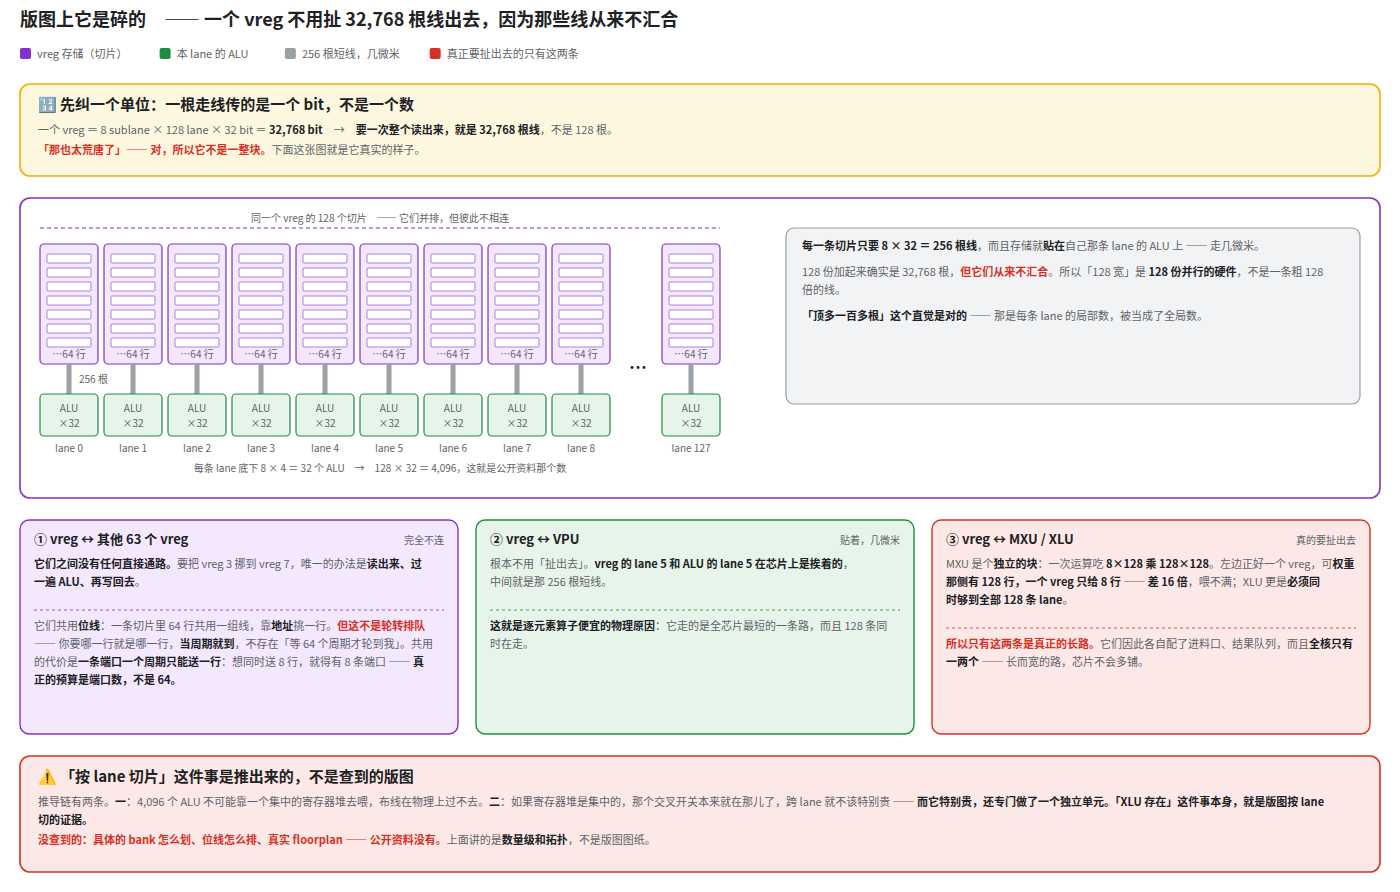
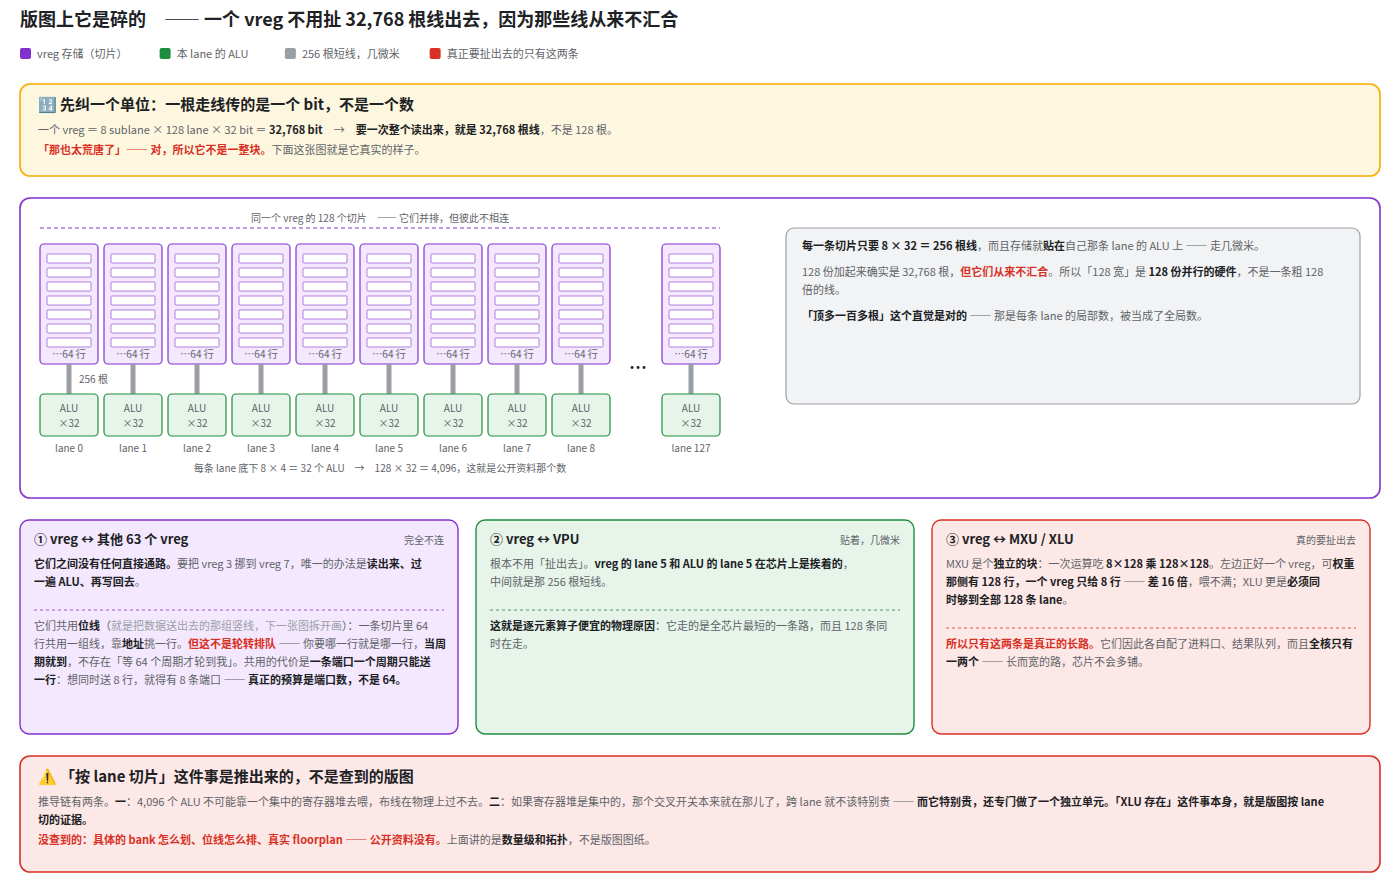
专题二 §3.2：第 2-5 轮审计（叙事衔接 / 出处分层 / 视觉 / 读者路径），修 4 处
第 2 轮 · 叙事衔接
8. P-26 的图注仍把「列与列之间没有直连通路」写成「我给的解释」，
   而图上那条红带早已把它收回 —— 图注与图正面打架，而且这条是**渲染出来给学员看的**。
   （上一个 commit 只修了 docstring，漏了图注。同一处错的第二个落点。）
   改写成：这条红带记的是一次收回，真正的说法是「贵在往返，不在缺线」，
   并点明它是后面三张图共同的地基。
9. P-29 用了「位线」但全文此前没有任何定义，读者是冷着撞上这个词的
   （P-30 才画）。就地加一句白话 + 指向下一张图。

第 3 轮 · 出处分层
10. 正文 P-30 引子写「公开资料明说一个周期就能到 VPU」—— 这是把学员的
    口头说法升格成了出处。公开资料给的是「每周期发 4 条向量指令、每条读 2 个 vreg」，
    改成这个有出处的说法，结论（不存在等 64 周期）照样成立。
    五张图的出处带已逐张确认齐全（P-27 的 v5p 口径带、P-28 的推导带、
    P-29 的红带、P-30 的通则带、P-26 的收回带）。

第 4 轮 · 视觉：P-29 重渲染目视通过，无碰撞无溢出。

第 5 轮 · 读者路径
11. P-30 之后直接进 §3.3，全课最深的一段没有出口。补一段收口 note：
    五张图串成一句话（数据从哪到哪、代价多少）→ 全部搬到编译期 →
    回到全课那条分水岭（谁在运行时挑活）。只讲串起来的线，不复述各图落点。

Changed region(s): [[0.0307, 0.6962, 0.3379, 0.787]]

diff --git a/Courses/WebPages/topic-02.html b/Courses/WebPages/topic-02.html
@@ -3878,7 +3878,7 @@ footer a{text-decoration:none}
 <text x="38" y="950" class="xs">这张图早先的版本写着「列与列之间没有直连通路」——那是想当然，已经删掉。公开资料的说法是：跨 lane <tspan font-weight="700" fill="#202124">至少要过一趟 VMEM／XLU／SMEM</tspan> ——<tspan font-weight="700" fill="#d93025">贵在「出一趟寄存器堆」这个往返，不在缺一根线。</tspan></text>
 <text x="38" y="971" class="xs">下一张图把这个往返画出来。<tspan font-weight="700" fill="#202124">XLU 的内部电路仍然没有出处</tspan> ——公开资料只说它是个独立单元、而且慢，没说它里面长什么样。</text>
 </svg>
-<figcaption>整张图就一件事：<b>同一个寄存器、同一批数，换个方向，代价完全不同</b>。绿的那一列是<b>纵向</b> —— 8 → 4 → 2 → 1，三步，全程没离开自己那套 ALU；红的那一行是<b>横向</b> —— 128 条 lane 各是一套硬件，数要横着走只能交给 <b>XLU</b>，而且往往还得绕一趟 VMEM。<b>黄带才是这张图真正要落的地方</b>：<code>softmax</code> 和 <code>RMSNorm</code> 都沿最后一维求和，而最后一维默认就铺在 lane 方向上 —— <b>最常做的那两个归约，恰好都撞在最贵的方向</b>。⚠ 底带那条不能跳过：<b>「列与列之间没有直连通路」是我给的解释，不是查到的</b>。</figcaption>
+<figcaption>整张图就一件事：<b>同一个寄存器、同一批数，换个方向，代价完全不同</b>。绿的那一列是<b>纵向</b> —— 8 → 4 → 2 → 1，三步，全程没离开自己那套 ALU；红的那一行是<b>横向</b> —— 128 条 lane 各是一套硬件，数要横着走只能交给 <b>XLU</b>，而且往往还得绕一趟 VMEM。<b>黄带才是这张图真正要落的地方</b>：<code>softmax</code> 和 <code>RMSNorm</code> 都沿最后一维求和，而最后一维默认就铺在 lane 方向上 —— <b>最常做的那两个归约，恰好都撞在最贵的方向</b>。⚠ 底带那条不能跳过，<b>它记的是一次收回</b>：「贵是因为列与列之间没有连线」——<b>这个说法是错的，已经撤掉</b>。公开资料的说法是跨 lane <b>至少要过一趟 VMEM／XLU／SMEM</b>，所以<b>贵在「出一趟寄存器堆再回来」这个往返，不在缺一根线</b>。（这一句是后面三张图共同的地基，别看漏。）</figcaption>
 </figure>
 
   <p><b>讲到这儿一定会有人问：那这些部件到底是怎么连的？</b>
@@ -4366,10 +4366,10 @@ footer a{text-decoration:none}
 <text x="34" y="568" class="xs"><tspan font-weight="700" fill="#202124">它们之间没有任何直接通路。</tspan>要把 vreg 3 挪到 vreg 7，唯一的办法是<tspan font-weight="700" fill="#202124">读出来、过</tspan></text>
 <text x="34" y="586" class="xs"><tspan font-weight="700" fill="#202124">一遍 ALU、再写回去</tspan>。</text>
 <line x1="34" y1="610" x2="444" y2="610" stroke="#8430ce" stroke-width="0.8" stroke-dasharray="3 3"/>
-<text x="34" y="630" class="xs">它们共用<tspan font-weight="700" fill="#202124">位线</tspan>：一条切片里 64 行共用一组线，靠<tspan font-weight="700" fill="#202124">地址</tspan>挑一行。<tspan font-weight="700" fill="#d93025">但这不是轮转排队</tspan> </text>
-<text x="34" y="648" class="xs">—— 你要哪一行就是哪一行，<tspan font-weight="700" fill="#202124">当周期就到</tspan>，不存在「等 64 个周期才轮到我」。共用</text>
-<text x="34" y="666" class="xs">的代价是<tspan font-weight="700" fill="#202124">一条端口一个周期只能送一行</tspan>：想同时送 8 行，就得有 8 条端口 —— <tspan font-weight="700" fill="#202124">真</tspan></text>
-<text x="34" y="684" class="xs"><tspan font-weight="700" fill="#202124">正的预算是端口数，不是 64。</tspan></text>
+<text x="34" y="630" class="xs">它们共用<tspan font-weight="700" fill="#202124">位线</tspan>（<tspan fill="#9aa0a6">就是把数据送出去的那组竖线，下一张图拆开画</tspan>）：一条切片里 64 </text>
+<text x="34" y="648" class="xs">行共用一组线，靠<tspan font-weight="700" fill="#202124">地址</tspan>挑一行。<tspan font-weight="700" fill="#d93025">但这不是轮转排队</tspan> —— 你要哪一行就是哪一行，<tspan font-weight="700" fill="#202124">当周</tspan></text>
+<text x="34" y="666" class="xs"><tspan font-weight="700" fill="#202124">期就到</tspan>，不存在「等 64 个周期才轮到我」。共用的代价是<tspan font-weight="700" fill="#202124">一条端口一个周期只能送</tspan></text>
+<text x="34" y="684" class="xs"><tspan font-weight="700" fill="#202124">一行</tspan>：想同时送 8 行，就得有 8 条端口 —— <tspan font-weight="700" fill="#202124">真正的预算是端口数，不是 64。</tspan></text>
 <rect x="476" y="520" width="438" height="214" rx="9" fill="#e6f4ea" stroke="#1e8e3e" stroke-width="1.4"/>
 <text x="490" y="544" class="box" fill="#1e8e3e">② vreg ↔ VPU</text>
 <text x="900" y="544" class="xxs" fill="#5f6368" text-anchor="end">贴着，几微米</text>
@@ -4399,7 +4399,9 @@ footer a{text-decoration:none}
   <p><b>「位线」这个词已经用了好几次，但一直没画出来 ——&nbsp;它其实就是一张田字格。</b>
     值得单独画一张，是因为不画就一定会误解成「大家轮流用一条总线」：
     <b>那样推下去，64 个 vreg 岂不是要 64 个周期才轮到一回？</b>
-    而公开资料明说一个周期就能到 VPU。<b>两句话对不上，对不上的是那个比喻，不是硬件。</b></p>
+    可公开资料给的数是：<b>每个周期都发得出 4 条向量指令，每条读 2 个 vreg</b> ——&nbsp;
+    也就是说<b>每一个周期都在从 vreg 取数，从来没有谁在等号</b>。
+    <b>两句话对不上，对不上的是那个比喻，不是硬件。</b></p>
 <figure class="fbox fwide" id="ms-p30">
 <svg viewBox="0 0 1400 1022" width="100%" xmlns="http://www.w3.org/2000/svg" role="img" aria-label="TPU 向量寄存器堆的位线结构：横向字线按地址选中一行，纵向位线把那一行的数据送出去；一个端口就是一整套这样的线">
 <text x="20" y="26" class="ttl">位线是一张<tspan font-weight="700">田字格</tspan>　—— 横的选行，竖的送数据，<tspan font-weight="700">一个端口就是一整套线</tspan></text>
@@ -4608,6 +4610,18 @@ footer a{text-decoration:none}
 </svg>
 <figcaption>「位线」这个词前面用了好几次，但一直没画。它其实就是一张<b>田字格</b>：<b>横着的是字线，一行一根，管「选中谁」；竖着的是位线，一位一根，管「把数据送出去」</b>。给一个 6 位地址，译码器点亮一根字线，那一行的 256 个单元同时接上位线 —— <b>当周期就到，没有排队这回事</b>。所以「64 个共用位线」的真面目是<b>按地址 64 挑 1</b>，<b>不是轮流用 64 个周期</b>。这张图顺带把「端口」落到实处：<b>一个端口 ＝ 译码器 ＋ 一组字线 ＋ 一组位线 ＋ 读出电路</b>，多端口就是在同一批单元上并排铺好几套线 —— 于是「多开几个端口」代价是<b>面积按端口数的平方涨</b>。⭐ 最值得看的是绿带那个对账：<b>64 × 256 × 128 ÷ 8 ＝ 256 KiB，正好等于公开资料说的「每核约 256 kB vreg」</b> —— 两条独立路径撞出同一个数，前面整套模型才算立住。</figcaption>
 </figure>
+
+  <div class="note ok"><span class="t">五张图走完了，串起来其实只有一句话</span>
+    从<b>方向</b>（P-26）到<b>一套 vreg 三个门</b>（P-27）到<b>端口不是总线</b>（P-28）
+    到<b>版图上按 lane 切碎</b>（P-29）再到<b>位线是一张田字格</b>（P-30）——
+    每一层都在回答同一个问题的更下一层：<b>数据从哪儿到哪儿，代价是多少。</b>
+    <br><br>而五层的答案指向同一个结论：<b>TPU 把「谁什么时候走哪条路」全部搬到了编译期</b>。
+    端口有几条是固定的，发射位有几个是固定的，跨 lane 只有那一两个 XLU ——
+    <b>正因为全都是固定的，编译器才排得出来；也正因为编译器排得出来，芯片上才不需要仲裁器。</b>
+    <br><br><b>这就是这门课从第 1 节起一直在回的那条分水岭</b>：
+    GPU 把这些决定留到运行时，所以要 warp 调度器、要记分板、要几十份常驻上下文；
+    TPU 把它们提前定死，于是那五样东西<b>同时</b>失去存在理由 ——
+    省下来的面积，就变成了更多的 MXU 和更大的 VMEM。</div>
 
   <h3>3.3　并行层级：哪几层是运行时才定的</h3>
   <p>上一节说的「运行时换任务」，具体是在哪一层发生的？把两边的层级摆开对照。

diff --git a/Courses/tools/topic02-port-microscope.py b/Courses/tools/topic02-port-microscope.py
@@ -200,7 +200,7 @@ CAP = {
 "p23": "二十条答不了的，按<b>「补起来有多难」</b>分四类，不按主题分 ——因为「跑一次就有」和「不由我们决定」是完全不同的两种空白。红格那两条（推理、TCO）是外行第一个会问的问题，<b>这门课从来没想到过</b>。",
 
 "p25": "两栏回答的是<b>同一个问题</b>：发送方手里那张单子上写着什么。一边写<b>对方的内存地址</b>（但那块内存必须先被对方注册过），一边写<b>哪颗芯片＋哪个段＋偏移</b>（段的物理基址握在接收方手里）—— 而<b>落到底下那句话是逐字相同的</b>。⚠ 左右证据等级不同：RDMA 是公开语义，ICI 这半<b>未标注来源</b>。",
-"p26": "整张图就一件事：<b>同一个寄存器、同一批数，换个方向，代价完全不同</b>。绿的那一列是<b>纵向</b> —— 8 → 4 → 2 → 1，三步，全程没离开自己那套 ALU；红的那一行是<b>横向</b> —— 128 条 lane 各是一套硬件，数要横着走只能交给 <b>XLU</b>，而且往往还得绕一趟 VMEM。<b>黄带才是这张图真正要落的地方</b>：<code>softmax</code> 和 <code>RMSNorm</code> 都沿最后一维求和，而最后一维默认就铺在 lane 方向上 —— <b>最常做的那两个归约，恰好都撞在最贵的方向</b>。⚠ 底带那条不能跳过：<b>「列与列之间没有直连通路」是我给的解释，不是查到的</b>。",
+"p26": "整张图就一件事：<b>同一个寄存器、同一批数，换个方向，代价完全不同</b>。绿的那一列是<b>纵向</b> —— 8 → 4 → 2 → 1，三步，全程没离开自己那套 ALU；红的那一行是<b>横向</b> —— 128 条 lane 各是一套硬件，数要横着走只能交给 <b>XLU</b>，而且往往还得绕一趟 VMEM。<b>黄带才是这张图真正要落的地方</b>：<code>softmax</code> 和 <code>RMSNorm</code> 都沿最后一维求和，而最后一维默认就铺在 lane 方向上 —— <b>最常做的那两个归约，恰好都撞在最贵的方向</b>。⚠ 底带那条不能跳过，<b>它记的是一次收回</b>：「贵是因为列与列之间没有连线」——<b>这个说法是错的，已经撤掉</b>。公开资料的说法是跨 lane <b>至少要过一趟 VMEM／XLU／SMEM</b>，所以<b>贵在「出一趟寄存器堆再回来」这个往返，不在缺一根线</b>。（这一句是后面三张图共同的地基，别看漏。）",
 "p30": "「位线」这个词前面用了好几次，但一直没画。它其实就是一张<b>田字格</b>：<b>横着的是字线，一行一根，管「选中谁」；竖着的是位线，一位一根，管「把数据送出去」</b>。给一个 6 位地址，译码器点亮一根字线，那一行的 256 个单元同时接上位线 —— <b>当周期就到，没有排队这回事</b>。所以「64 个共用位线」的真面目是<b>按地址 64 挑 1</b>，<b>不是轮流用 64 个周期</b>。这张图顺带把「端口」落到实处：<b>一个端口 ＝ 译码器 ＋ 一组字线 ＋ 一组位线 ＋ 读出电路</b>，多端口就是在同一批单元上并排铺好几套线 —— 于是「多开几个端口」代价是<b>面积按端口数的平方涨</b>。⭐ 最值得看的是绿带那个对账：<b>64 × 256 × 128 ÷ 8 ＝ 256 KiB，正好等于公开资料说的「每核约 256 kB vreg」</b> —— 两条独立路径撞出同一个数，前面整套模型才算立住。",
 "p29": "P-28 说「每条端口本身就是 128 宽」，最较真的追问紧接着就来：<b>一个 vreg 才 4 KB，它怎么可能扯出去那么多根线？</b>这个质疑<b>完全正确</b> —— 而且答案不是「线真有那么多」，是<b>「它们根本不需要汇合」</b>。先纠单位：一根走线传<b>一个 bit</b>，所以一个 vreg 是 8 × 128 × 32 ＝ <b>32,768 根</b>，不是 128 根。荒唐 → 所以它不是一整块：<b>整条数据通路按 lane 切成 128 份，存储就贴在自己那条 lane 的 ALU 旁边</b>，每份只要 <b>256 根线、走几微米</b>。于是三个问题一次答完：<b>64 个 vreg 之间完全不连</b>（只共用位线，而且是<b>按地址选通、当周期就到</b>，<b>不是轮转排队</b> —— 共用的代价是「一条端口一周期只送一行」，不是「等 64 个周期」）；<b>到 VPU 是贴着的</b>；<b>只有 MXU 和 XLU 才真的要扯长线</b> —— 这也正是它们要队列、要共享的原因。⚠ 红带那条必须念：<b>「按 lane 切片」是推的，不是查到的版图</b>，具体 bank 划分与 floorplan 公开资料没有。",
 "p28": "上一张图说「各开一个门」，紧接着最自然的追问是：那不就是 128 条车道大家串在一起、时分复用吗？<b>一半对，一半错，而错的那一半最要紧</b>：争用确实有，但争的不是一条共享总线，是<b>端口和发射位</b> —— <b>128 是每条通路的宽度，不是要分给大家的份额</b>。四张卡把四个单元的接法摊开对比，机关在「要不要队列」那一栏：<b>三个都要，理由两两不同</b>（超越函数是因为慢，XLU 是因为共享，MXU 是因为一口喂不满）。落点那条最值得记：<b>撞车不是被解决的，是被编译期提前排掉、根本没机会发生</b> —— GPU 靠运行时记分板现场决定，这正是全课那条分水岭。⚠ 端口那个「约 9 读 7 写」<b>是推的不是原话</b>，图上写了推导链。",
@@ -333,10 +333,27 @@ def sections(F):
   <p><b>「位线」这个词已经用了好几次，但一直没画出来 ——&nbsp;它其实就是一张田字格。</b>
     值得单独画一张，是因为不画就一定会误解成「大家轮流用一条总线」：
     <b>那样推下去，64 个 vreg 岂不是要 64 个周期才轮到一回？</b>
-    而公开资料明说一个周期就能到 VPU。<b>两句话对不上，对不上的是那个比喻，不是硬件。</b></p>''')
+    可公开资料给的数是：<b>每个周期都发得出 4 条向量指令，每条读 2 个 vreg</b> ——&nbsp;
+    也就是说<b>每一个周期都在从 vreg 取数，从来没有谁在等号</b>。
+    <b>两句话对不上，对不上的是那个比喻，不是硬件。</b></p>''')
     # ⛔ 同前：图自带落点带（绿带那个对账就是落点），图后不要再写 note。
     a(F("p30"))
+    # ⛔ 这一段是 P-26～P-30 五张图的收口，不是复述。
+    #    五张图各自都有落点带，所以这里**只讲那条把它们串起来的线**，
+    #    并且必须回到全课那条分水岭 —— 否则读者走完最深的一段没有出口。
     a('''
+  <div class="note ok"><span class="t">五张图走完了，串起来其实只有一句话</span>
+    从<b>方向</b>（P-26）到<b>一套 vreg 三个门</b>（P-27）到<b>端口不是总线</b>（P-28）
+    到<b>版图上按 lane 切碎</b>（P-29）再到<b>位线是一张田字格</b>（P-30）——
+    每一层都在回答同一个问题的更下一层：<b>数据从哪儿到哪儿，代价是多少。</b>
+    <br><br>而五层的答案指向同一个结论：<b>TPU 把「谁什么时候走哪条路」全部搬到了编译期</b>。
+    端口有几条是固定的，发射位有几个是固定的，跨 lane 只有那一两个 XLU ——
+    <b>正因为全都是固定的，编译器才排得出来；也正因为编译器排得出来，芯片上才不需要仲裁器。</b>
+    <br><br><b>这就是这门课从第 1 节起一直在回的那条分水岭</b>：
+    GPU 把这些决定留到运行时，所以要 warp 调度器、要记分板、要几十份常驻上下文；
+    TPU 把它们提前定死，于是那五样东西<b>同时</b>失去存在理由 ——
+    省下来的面积，就变成了更多的 MXU 和更大的 VMEM。</div>
+
   <h3>3.3　并行层级：哪几层是运行时才定的</h3>
   <p>上一节说的「运行时换任务」，具体是在哪一层发生的？把两边的层级摆开对照。
     <b>GPU 这边有四层</b>，注意哪几层是启动之后才知道的 ——</p>''')

diff --git a/Courses/tools/t02-figs/fig_p29_slices.py b/Courses/tools/t02-figs/fig_p29_slices.py
@@ -131,7 +131,8 @@ QA = [
     (PU, "① vreg ↔ 其他 63 个 vreg", "完全不连",
      "<b>它们之间没有任何直接通路。</b>要把 vreg 3 挪到 vreg 7，"
      "唯一的办法是<b>读出来、过一遍 ALU、再写回去</b>。",
-     "它们共用<b>位线</b>：一条切片里 64 行共用一组线，靠<b>地址</b>挑一行。"
+     "它们共用<b>位线</b>（<g>就是把数据送出去的那组竖线，下一张图拆开画</g>）："
+     "一条切片里 64 行共用一组线，靠<b>地址</b>挑一行。"
      "<r>但这不是轮转排队</r> —— 你要哪一行就是哪一行，<b>当周期就到</b>，"
      "不存在「等 64 个周期才轮到我」。共用的代价是"
      "<b>一条端口一个周期只能送一行</b>：想同时送 8 行，就得有 8 条端口 —— "
